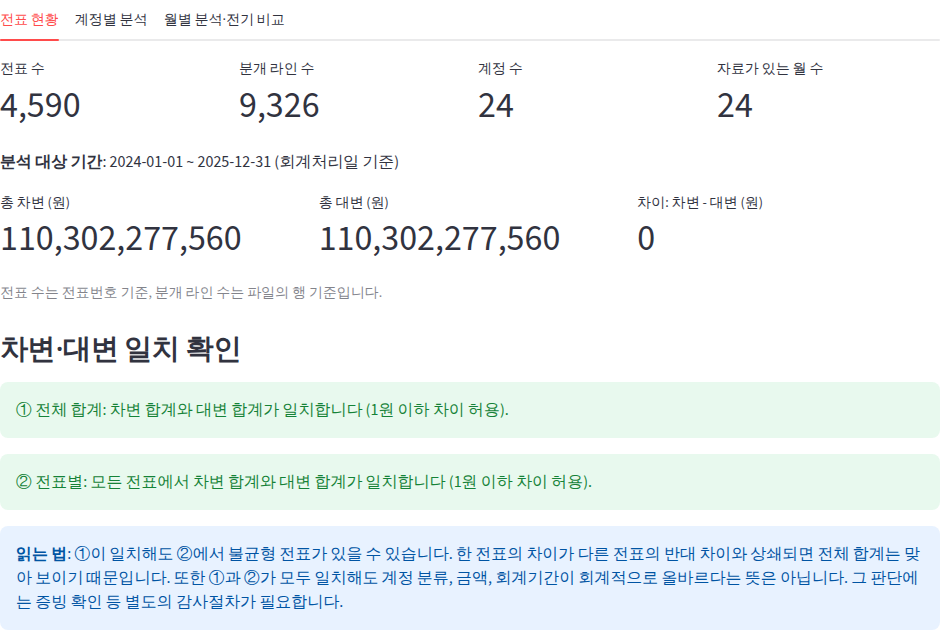
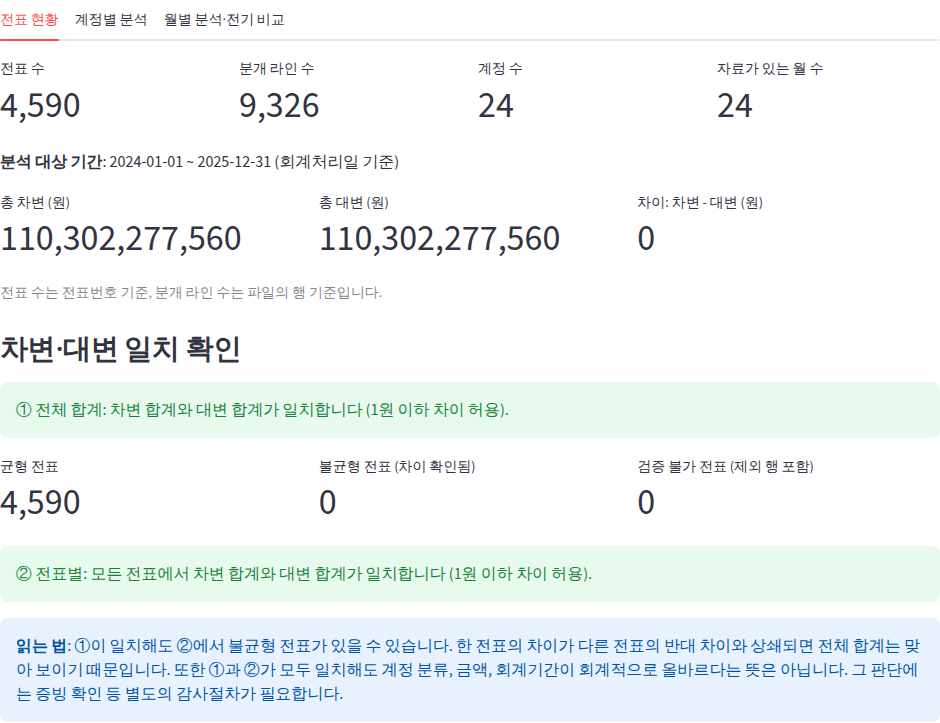
feat: 제외된 행이 포함된 전표를 '검증 불가'로 분리하고 제외 사유 표시
- validation.py: 제외한 행마다 사유를 excluded_detail에 기록, V8에서 검증 불가 전표를 불균형과 따로 집계
- analysis.py: voucher_status()로 전표를 균형·불균형·검증 불가로 판정, overview()에 상태별 건수 추가
- app.py: 전표 현황 탭에서 불균형(빨강)과 검증 불가(노랑, 제외 사유 목록)를 나눠 표시
- tests: 검증 불가 분류, 실제 불균형 탐지 유지, 제외 사유 표시 테스트 5개 추가

Claude-Session: https://claude.ai/code/session_01DbvhCLCeHEFVYbBNJ4URzf

diff --git a/auditlens/validation.py b/auditlens/validation.py
@@ -35,6 +35,7 @@ class ValidationResult:
     issues: list = field(default_factory=list)
     clean: pd.DataFrame = None  # 표준 열 이름, 변환된 자료형, 제외 행이 빠진 표
     excluded_rows: list = field(default_factory=list)  # 분석에서 제외한 파일 행 번호
+    excluded_detail: pd.DataFrame = None  # 제외한 행의 파일 행 번호(file_row), 전표번호(je_id), 사유
     summary: dict = field(default_factory=dict)
 
     @property
@@ -188,12 +189,18 @@ def validate_journal(raw: pd.DataFrame, mapping: dict) -> ValidationResult:
         if file_col:
             work[std_col] = raw[file_col]
     excluded = set()
+    reasons = {}  # DataFrame 행 번호 → 제외 사유 목록
+
+    def exclude(indices, texts):
+        excluded.update(indices)
+        for i, text in zip(indices, texts):
+            reasons.setdefault(i, []).append(text)
 
     # V5 필수 값 결측 (전표번호, 회계처리일, 계정코드는 없으면 분석에서 제외)
     for col in ["je_id", "posting_date", "account_code"]:
         blank_idx = [i for i, v in work[col].items() if _is_blank(v)]
         if blank_idx:
-            excluded.update(blank_idx)
+            exclude(blank_idx, [f"{COLUMN_LABELS[col]} 없음"] * len(blank_idx))
             _add(result, WARNING, "V5", _label(col),
                  f"'{COLUMN_LABELS[col]}' 값이 비어 있는 행이 {len(blank_idx)}개 있습니다.",
                  f"해당 행에 '{COLUMN_LABELS[col]}'을(를) 채워 주세요. 이 행들은 분석에서 제외됩니다.",
@@ -216,7 +223,7 @@ def validate_journal(raw: pd.DataFrame, mapping: dict) -> ValidationResult:
             bad_vals.append(str(exc))
             parsed_dates[i] = None
     if bad_idx:
-        excluded.update(bad_idx)
+        exclude(bad_idx, [f"회계처리일 형식 오류('{v}')" for v in bad_vals])
         _add(result, WARNING, "V3", _label("posting_date"),
              f"날짜로 읽을 수 없는 회계처리일이 {len(bad_idx)}개 행에 있습니다.",
              "YYYY-MM-DD 형식(예: 2025-03-31)으로 고쳐 주세요. 존재하지 않는 날짜(예: 2025-02-30)도 "
@@ -257,7 +264,7 @@ def validate_journal(raw: pd.DataFrame, mapping: dict) -> ValidationResult:
                 bad_vals.append(str(exc))
                 values[i] = 0.0
         if bad_idx:
-            excluded.update(bad_idx)
+            exclude(bad_idx, [f"{COLUMN_LABELS[col]} 형식 오류('{v}')" for v in bad_vals])
             _add(result, WARNING, "V4", _label(col),
                  f"숫자로 읽을 수 없는 {COLUMN_LABELS[col]}이 {len(bad_idx)}개 행에 있습니다.",
                  "숫자만 입력해 주세요(예: 1500000 또는 1,500,000). 이 행들은 분석에서 제외됩니다.",
@@ -295,6 +302,11 @@ def validate_journal(raw: pd.DataFrame, mapping: dict) -> ValidationResult:
 
     work["account_code"] = work["account_code"].map(_normalize_code)
     work["je_id"] = work["je_id"].map(lambda v: "" if _is_blank(v) else str(v).strip())
+    result.excluded_detail = pd.DataFrame(
+        [{"file_row": file_row_number(i), "je_id": work.at[i, "je_id"], "사유": ", ".join(reasons[i])}
+         for i in sorted(reasons)],
+        columns=["file_row", "je_id", "사유"],
+    )
 
     # V9 완전히 같은 행 (원본 파일의 모든 열 기준)
     dup_mask = raw.astype(str).duplicated(keep="first")
@@ -317,19 +329,28 @@ def validate_journal(raw: pd.DataFrame, mapping: dict) -> ValidationResult:
         result.excluded_rows = [file_row_number(i) for i in sorted(excluded)]
         return result
 
-    # V8 전표별 차대 균형
+    # V8 전표별 차대 균형. 제외된 행이 하나라도 있는 전표는 균형 여부를 확정할 수 없으므로 '검증 불가'로 따로 셉니다.
+    unverifiable = sorted(set(result.excluded_detail["je_id"]) - {""})
     totals = clean.groupby("je_id")[["debit", "credit"]].sum()
     diff = (totals["debit"] - totals["credit"]).abs()
-    unbalanced = diff[diff > BALANCE_TOLERANCE]
+    unbalanced = diff[(diff > BALANCE_TOLERANCE) & ~diff.index.isin(unverifiable)]
     if len(unbalanced):
         shown = ", ".join(f"{je}(차이 {d:,.0f}원)" for je, d in unbalanced.head(MAX_EXAMPLES).items())
         more = len(unbalanced) - min(len(unbalanced), MAX_EXAMPLES)
         _add(result, WARNING, "V8", "전표별 차대 균형",
              f"차변 합계와 대변 합계가 다른 전표가 {len(unbalanced)}개 있습니다: "
              f"{shown}{f' 외 {more}개' if more else ''}",
-             "해당 전표의 라인이 빠졌거나 금액이 잘못 입력되었는지 확인해 주세요. "
-             "형식 오류로 제외된 행 때문에 생긴 차이일 수도 있습니다.",
+             "해당 전표의 라인이 빠졌거나 금액이 잘못 입력되었는지 확인해 주세요.",
              list(unbalanced.index), "")
+    if unverifiable:
+        shown = ", ".join(unverifiable[:MAX_EXAMPLES])
+        more = len(unverifiable) - min(len(unverifiable), MAX_EXAMPLES)
+        _add(result, WARNING, "V8", "전표별 차대 균형 (검증 불가)",
+             f"분석에서 제외된 행이 포함된 전표가 {len(unverifiable)}개 있어 차대 균형을 확인할 수 없습니다: "
+             f"{shown}{f' 외 {more}개' if more else ''}",
+             "제외된 행의 날짜·금액 형식이나 빠진 값을 고치면 균형 여부를 확인할 수 있습니다. "
+             "이 전표들은 불균형 전표 수에 넣지 않습니다.",
+             unverifiable, "")
 
     # V11 계정코드 하나에 계정과목명이 여러 개
     names = clean.groupby("account_code")["account_name"].nunique()

diff --git a/auditlens/analysis.py b/auditlens/analysis.py
@@ -88,17 +88,75 @@ def voucher_balance(df: pd.DataFrame):
     return table.reset_index().rename(columns={"je_id": "전표번호"})
 
 
-def unbalanced_vouchers(df: pd.DataFrame):
-    """차변 합계와 대변 합계의 차이가 허용액(1원)을 넘는 전표."""
+BALANCED, UNBALANCED, UNVERIFIABLE = "균형", "불균형", "검증 불가"
+STATUS_COLUMNS = ["전표번호", "상태", "회계처리일", "라인 수", "제외 행 수", "차변 합계", "대변 합계", "차이", "제외 사유"]
+
+
+def _excluded_by_voucher(excluded):
+    """검증에서 제외한 행을 전표번호별로 모읍니다. 전표번호가 빈 행은 어느 전표인지 알 수 없어 빠집니다.
+
+    excluded: validation 결과의 excluded_detail (file_row, je_id, 사유). None이면 제외 행이 없는 것으로 봅니다.
+    반환값: {전표번호: (제외 행 수, "12행 회계처리일 형식 오류('2025-02-30') / ...")}
+    """
+    if excluded is None or len(excluded) == 0:
+        return {}
+    grouped = {}
+    for row in excluded.itertuples(index=False):
+        if row.je_id:
+            grouped.setdefault(row.je_id, []).append(f"{row.file_row}행 {row.사유}")
+    return {je: (len(items), " / ".join(items)) for je, items in grouped.items()}
+
+
+def voucher_status(df: pd.DataFrame, excluded=None):
+    """전표마다 균형·불균형·검증 불가를 판정합니다.
+
+    - 검증 불가: 검증에서 제외된 행이 하나라도 있는 전표. 남은 행만으로는 균형 여부를 확정할 수 없으므로
+      불균형으로 세지 않습니다. 모든 행이 제외된 전표도 여기에 들어갑니다(라인 수 0).
+    - 불균형: 제외된 행이 없고, 차변 합계와 대변 합계의 차이가 허용액(1원)을 넘는 전표.
+    - 균형: 그 밖의 전표.
+    금액과 차이는 분석에 남은 행만으로 계산한 값입니다.
+    """
     table = voucher_balance(df)
-    return table[table["차이"].abs() > BALANCE_TOLERANCE].reset_index(drop=True)
+    by_voucher = _excluded_by_voucher(excluded)
+    missing = sorted(set(by_voucher) - set(table["전표번호"]))
+    if missing:
+        empty = pd.DataFrame({"전표번호": missing, "회계처리일": pd.NaT, "라인 수": 0,
+                              "차변 합계": 0.0, "대변 합계": 0.0, "차이": 0.0})
+        table = pd.concat([table, empty], ignore_index=True) if len(table) else empty
+    table["제외 행 수"] = [by_voucher.get(je, (0, ""))[0] for je in table["전표번호"]]
+    table["제외 사유"] = [by_voucher.get(je, (0, ""))[1] for je in table["전표번호"]]
+    table["상태"] = [
+        UNVERIFIABLE if n else (UNBALANCED if abs(d) > BALANCE_TOLERANCE else BALANCED)
+        for n, d in zip(table["제외 행 수"], table["차이"])
+    ]
+    return table[STATUS_COLUMNS].reset_index(drop=True)
 
 
-def overview(df: pd.DataFrame):
-    """전표 현황 요약. 데이터가 없으면 건수·금액 0, 기간 None을 돌려줍니다."""
+def unbalanced_vouchers(df: pd.DataFrame, excluded=None):
+    """제외된 행이 없는데 차변 합계와 대변 합계의 차이가 허용액(1원)을 넘는 전표 (실제 불균형)."""
+    table = voucher_status(df, excluded)
+    columns = ["전표번호", "회계처리일", "라인 수", "차변 합계", "대변 합계", "차이"]
+    return table.loc[table["상태"] == UNBALANCED, columns].reset_index(drop=True)
+
+
+def unverifiable_vouchers(df: pd.DataFrame, excluded=None):
+    """검증에서 제외된 행이 포함되어 차대 균형을 확정할 수 없는 전표와 제외 사유."""
+    table = voucher_status(df, excluded)
+    columns = ["전표번호", "회계처리일", "라인 수", "제외 행 수", "차변 합계", "대변 합계", "차이", "제외 사유"]
+    return table.loc[table["상태"] == UNVERIFIABLE, columns].reset_index(drop=True)
+
+
+def overview(df: pd.DataFrame, excluded=None):
+    """전표 현황 요약. 데이터가 없으면 건수·금액 0, 기간 None을 돌려줍니다.
+
+    excluded를 주면 제외된 행이 포함된 전표를 '검증 불가'로 따로 세고 불균형 전표 수에서 뺍니다.
+    """
     total_dr = float(df["debit"].sum()) if len(df) else 0.0
     total_cr = float(df["credit"].sum()) if len(df) else 0.0
-    unbalanced = unbalanced_vouchers(df)
+    status = voucher_status(df, excluded)
+    unbalanced = status[status["상태"] == UNBALANCED]
+    unverifiable = status[status["상태"] == UNVERIFIABLE]
+    no_voucher = 0 if excluded is None or len(excluded) == 0 else int((excluded["je_id"] == "").sum())
     return {
         "라인 수": int(len(df)),
         "전표 수": int(df["je_id"].nunique()) if len(df) else 0,
@@ -110,8 +168,12 @@ def overview(df: pd.DataFrame):
         "총 대변": total_cr,
         "차이": total_dr - total_cr,
         "합계 일치": abs(total_dr - total_cr) <= BALANCE_TOLERANCE,
+        "균형 전표 수": int((status["상태"] == BALANCED).sum()),
         "불균형 전표 수": int(len(unbalanced)),
         "불균형 전표 차이 절대값 합계": float(unbalanced["차이"].abs().sum()) if len(unbalanced) else 0.0,
+        "검증 불가 전표 수": int(len(unverifiable)),
+        "검증 불가 전표 차이 합계": float(unverifiable["차이"].sum()) if len(unverifiable) else 0.0,
+        "전표번호 없는 제외 행 수": no_voucher,
     }
 
 

diff --git a/app.py b/app.py
@@ -10,7 +10,7 @@ import streamlit as st
 from auditlens.analysis import (
     CHART_UNIT, CHART_UNIT_LABEL, KEY_ACCOUNT_GROUPS, MEASURES, account_summary, accounts_in_group,
     compare_years, fiscal_years, key_account_summary, monthly_summary, overview, prepare,
-    unbalanced_vouchers,
+    unbalanced_vouchers, unverifiable_vouchers,
 )
 from auditlens.loader import LoadError, list_excel_sheets, read_uploaded_file
 from auditlens.sample_data import (
@@ -225,6 +225,11 @@ def money(table, columns):
     return with_won(table, columns).style.format("{:,.0f}", subset=[f"{c} (원)" for c in columns], na_rep="")
 
 
+def date_only(table, column="회계처리일"):
+    """날짜 열을 YYYY-MM-DD 글자로 바꿔 보여 줍니다. 날짜가 없으면 빈칸입니다."""
+    return table.assign(**{column: table[column].dt.strftime("%Y-%m-%d").fillna("")})
+
+
 def to_chart_unit(table, columns):
     return table[columns] / CHART_UNIT
 
@@ -232,7 +237,8 @@ def to_chart_unit(table, columns):
 tab_overview, tab_account, tab_month = st.tabs(["전표 현황", "계정별 분석", "월별 분석·전기 비교"])
 
 with tab_overview:
-    ov = overview(df)
+    excluded = result.excluded_detail
+    ov = overview(df, excluded)
     c1, c2, c3, c4 = st.columns(4)
     c1.metric("전표 수", f"{ov['전표 수']:,}")
     c2.metric("분개 라인 수", f"{ov['라인 수']:,}")
@@ -250,15 +256,36 @@ with tab_overview:
         st.success("① 전체 합계: 차변 합계와 대변 합계가 일치합니다 (1원 이하 차이 허용).")
     else:
         st.warning(f"① 전체 합계: 차변 합계와 대변 합계가 {abs(ov['차이']):,.0f}원 다릅니다.")
+    if result.excluded_rows:
+        st.caption(f"검증에서 제외한 {len(result.excluded_rows):,}행은 ① 합계에 들어 있지 않습니다. 위 차이 중 "
+                   f"{ov['검증 불가 전표 차이 합계']:,.0f}원은 아래 '검증 불가' 전표에서 생긴 것입니다.")
+
+    s1, s2, s3 = st.columns(3)
+    s1.metric("균형 전표", f"{ov['균형 전표 수']:,}")
+    s2.metric("불균형 전표 (차이 확인됨)", f"{ov['불균형 전표 수']:,}")
+    s3.metric("검증 불가 전표 (제외 행 포함)", f"{ov['검증 불가 전표 수']:,}")
+    scope = "검증할 수 있는 전표는 모두" if ov["검증 불가 전표 수"] else "모든 전표에서"
     if ov["불균형 전표 수"] == 0:
-        st.success("② 전표별: 모든 전표에서 차변 합계와 대변 합계가 일치합니다 (1원 이하 차이 허용).")
+        st.success(f"② 전표별: {scope} 차변 합계와 대변 합계가 일치합니다 (1원 이하 차이 허용).")
     else:
-        st.warning(f"② 전표별: 차변·대변이 맞지 않는 전표가 {ov['불균형 전표 수']:,}개 있습니다 "
-                   f"(차이 절대값 합계 {ov['불균형 전표 차이 절대값 합계']:,.0f}원).")
-        unbalanced = unbalanced_vouchers(df)
+        st.error(f"② 전표별 불균형: 제외된 행이 없는데도 차변·대변이 맞지 않는 전표가 {ov['불균형 전표 수']:,}개 "
+                 f"있습니다 (차이 절대값 합계 {ov['불균형 전표 차이 절대값 합계']:,.0f}원).")
         with st.expander("불균형 전표 목록"):
-            st.dataframe(money(unbalanced, ["차변 합계", "대변 합계", "차이"]), hide_index=True,
-                         use_container_width=True)
+            st.dataframe(money(date_only(unbalanced_vouchers(df, excluded)), ["차변 합계", "대변 합계", "차이"]),
+                         hide_index=True, use_container_width=True)
+    if ov["검증 불가 전표 수"]:
+        st.warning(f"② 전표별 검증 불가: 검증에서 제외된 행이 포함된 전표가 {ov['검증 불가 전표 수']:,}개 있습니다. "
+                   "남은 행만으로는 균형 여부를 판단할 수 없어 불균형 전표로 세지 않았습니다. 아래 제외 사유를 "
+                   "고쳐 다시 올리면 확인할 수 있습니다.", icon="🔍")
+        with st.expander("검증 불가 전표 목록과 제외 사유", expanded=True):
+            st.dataframe(money(date_only(unverifiable_vouchers(df, excluded)), ["차변 합계", "대변 합계", "차이"]),
+                         hide_index=True, use_container_width=True,
+                         column_config={"제외 사유": st.column_config.TextColumn(width="large")})
+            st.caption("라인 수·금액·차이는 분석에 남은 행만으로 계산한 값입니다. 제외 사유의 행 번호는 "
+                       "올린 파일에서의 행 번호(머리글이 1행)입니다.")
+    if ov["전표번호 없는 제외 행 수"]:
+        st.caption(f"전표번호가 비어 있어 어느 전표인지 알 수 없는 제외 행이 {ov['전표번호 없는 제외 행 수']:,}개 "
+                   "있습니다. 이 행들은 어느 전표의 판정에도 반영되지 않았습니다.")
     st.info(
         "**읽는 법**: ①이 일치해도 ②에서 불균형 전표가 있을 수 있습니다. 한 전표의 차이가 다른 전표의 반대 차이와 "
         "상쇄되면 전체 합계는 맞아 보이기 때문입니다. 또한 ①과 ②가 모두 일치해도 계정 분류, 금액, 회계기간이 "

diff --git a/tests/test_analysis.py b/tests/test_analysis.py
@@ -375,3 +375,87 @@ def test_샘플_분개장_원본과_계정별_월별_건수_대사():
         assert lines.loc[f"{month}월", "당기"] == by_month[(2025, month)][0]
         assert debit.loc[f"{month}월", "전기"] == by_month[(2024, month)][1]
         assert debit.loc[f"{month}월", "당기"] == by_month[(2025, month)][1]
+
+
+# ---------------------------------------------------------------- 검증 불가 전표 (제외된 행이 포함된 전표)
+def _run(rows):
+    raw = pd.DataFrame(rows, columns=list(MAPPING), dtype=object)
+    result = validate_journal(raw, MAPPING)
+    df, _ = A.prepare(result.clean)
+    return result, df
+
+
+MIXED = [
+    # J1: 정상 균형 전표
+    ("J1", "2025-01-02", "131", "원재료", "1000", ""),
+    ("J1", "2025-01-02", "251", "외상매입금", "", "1000"),
+    # J2: 제외 행 없는 실제 불균형 (차이 100원)
+    ("J2", "2025-01-03", "131", "원재료", "500", ""),
+    ("J2", "2025-01-03", "251", "외상매입금", "", "400"),
+    # J3: 원래 균형이지만 대변 행의 날짜가 잘못되어 제외됨 → 검증 불가
+    ("J3", "2025-01-04", "131", "원재료", "700", ""),
+    ("J3", "2025-02-30", "251", "외상매입금", "", "700"),
+    # J4: 금액 형식 오류 행과 계정코드가 빈 행이 제외됨 → 검증 불가
+    ("J4", "2025-01-05", "830", "소모품비", "abc", ""),
+    ("J4", "2025-01-05", "", "보통예금", "", "300"),
+    ("J4", "2025-01-05", "830", "소모품비", "50", ""),
+    # J5: 모든 행이 제외됨 (회계처리일 없음) → 검증 불가, 분석 라인 0
+    ("J5", "", "131", "원재료", "200", ""),
+    ("J5", "", "251", "외상매입금", "", "200"),
+    # 전표번호가 빈 행 → 어느 전표인지 알 수 없음
+    ("", "2025-01-06", "131", "원재료", "10", ""),
+]
+
+
+def test_제외된_행이_포함된_전표는_불균형으로_집계되지_않음():
+    result, df = _run(MIXED)
+    status = dict(zip(*A.voucher_status(df, result.excluded_detail)[["전표번호", "상태"]].T.values))
+    assert status == {"J1": "균형", "J2": "불균형", "J3": "검증 불가", "J4": "검증 불가", "J5": "검증 불가"}
+    ov = A.overview(df, result.excluded_detail)
+    assert ov["불균형 전표 수"] == 1 and ov["균형 전표 수"] == 1 and ov["검증 불가 전표 수"] == 3
+    assert list(A.unbalanced_vouchers(df, result.excluded_detail)["전표번호"]) == ["J2"]
+    # 검증 단계 V8도 같은 기준: 불균형 경고에는 J2만, 검증 불가는 따로
+    v8 = {i["항목"]: i for i in result.issues if i["코드"] == "V8"}
+    assert "1개" in v8["전표별 차대 균형"]["문제"] and "J2" in v8["전표별 차대 균형"]["문제"]
+    assert "J3" not in v8["전표별 차대 균형"]["문제"]
+    assert "3개" in v8["전표별 차대 균형 (검증 불가)"]["문제"]
+
+
+def test_제외_행을_고려하지_않으면_불균형으로_잘못_집계됨():
+    # excluded를 주지 않으면 예전 방식(남은 행만으로 판정)이 되어 J3·J4가 불균형으로 잡힙니다.
+    result, df = _run(MIXED)
+    assert sorted(A.unbalanced_vouchers(df)["전표번호"]) == ["J2", "J3", "J4"]
+
+
+def test_실제_불균형_전표는_기존처럼_탐지됨():
+    result, df = _run(MIXED[:4])  # 제외 행이 없는 J1·J2
+    assert result.excluded_detail.empty
+    table = A.unbalanced_vouchers(df, result.excluded_detail)
+    assert list(table["전표번호"]) == ["J2"] and table.loc[0, "차이"] == 100
+    ov = A.overview(df, result.excluded_detail)
+    assert ov["불균형 전표 수"] == 1 and ov["검증 불가 전표 수"] == 0
+    assert ov == {**A.overview(df), "균형 전표 수": 1}  # excluded 유무와 관계없이 같은 결과
+
+
+def test_제외_사유가_전표별로_표시됨():
+    result, df = _run(MIXED)
+    detail = result.excluded_detail.set_index("file_row")
+    assert detail.loc[7, "사유"] == "회계처리일 형식 오류('2025-02-30')"
+    assert detail.loc[8, "사유"] == "차변금액 형식 오류('abc')"
+    assert detail.loc[9, "사유"] == "계정코드 없음"
+    assert detail.loc[11, "사유"] == "회계처리일 없음"
+    assert detail.loc[13, "je_id"] == "" and detail.loc[13, "사유"] == "전표번호 없음"
+
+    table = A.unverifiable_vouchers(df, result.excluded_detail).set_index("전표번호")
+    assert table.loc["J3", "제외 사유"] == "7행 회계처리일 형식 오류('2025-02-30')"
+    assert table.loc["J4", "제외 사유"] == "8행 차변금액 형식 오류('abc') / 9행 계정코드 없음"
+    assert table.loc["J4", "제외 행 수"] == 2 and table.loc["J4", "라인 수"] == 1
+    assert table.loc["J5", "라인 수"] == 0 and table.loc["J5", "제외 행 수"] == 2
+    assert A.overview(df, result.excluded_detail)["전표번호 없는 제외 행 수"] == 1
+
+
+def test_한_행에_사유가_여러_개면_모두_표시():
+    rows = [("J1", "2025-13-01", "131", "원재료", "abc", ""), ("J1", "2025-01-01", "251", "외상매입금", "", "1")]
+    result, df = _run(rows)
+    assert result.excluded_detail.loc[0, "사유"] == "회계처리일 형식 오류('2025-13-01'), 차변금액 형식 오류('abc')"
+    assert A.voucher_status(df, result.excluded_detail).loc[0, "상태"] == "검증 불가"
